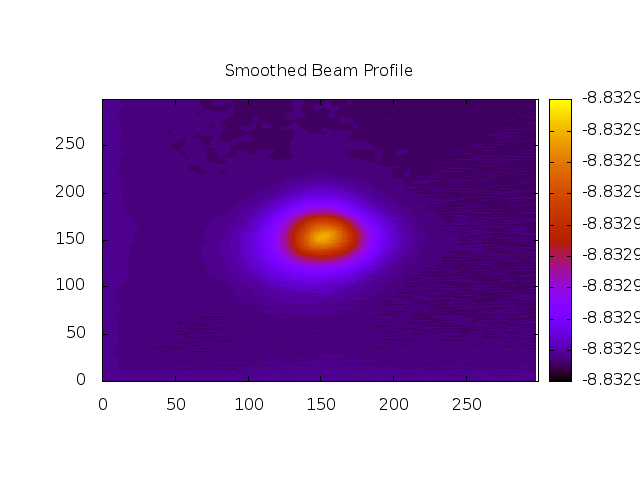
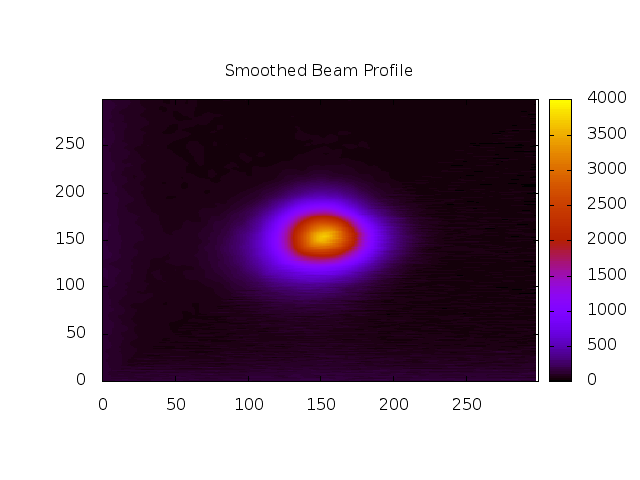
Cast image inten values back to uint16 fixing range

diff --git a/fit_tools.c b/fit_tools.c
@@ -27,7 +27,7 @@ void save_smoothed_image(char *outfile, gsl_vector* data_sq[]) {
     }
     for (int i=0; i < DIM; i++) {
         for (int j=0; j < DIM; j++) {
-            fprintf(f_img, "%f ", gsl_vector_get(data_sq[i], j));
+            fprintf(f_img, "%d ", (uint16_t)gsl_vector_get(data_sq[i], j));
         }
         fprintf(f_img, "\n");
     }
@@ -44,7 +44,7 @@ void save_averaged_to_file(const char *outfile, gsl_vector *mux, gsl_vector *muy
     for (int i=0; i < DIM; i++) {
         x = gsl_vector_get(mux, i);
         y = gsl_vector_get(muy, i);
-        fprintf(f_sm, "%i %f %f\n", i, x, y);
+        fprintf(f_sm, "%i %d %d\n", i, (uint16_t)x, (uint16_t)y);
     }
     fclose(f_sm);
 }
